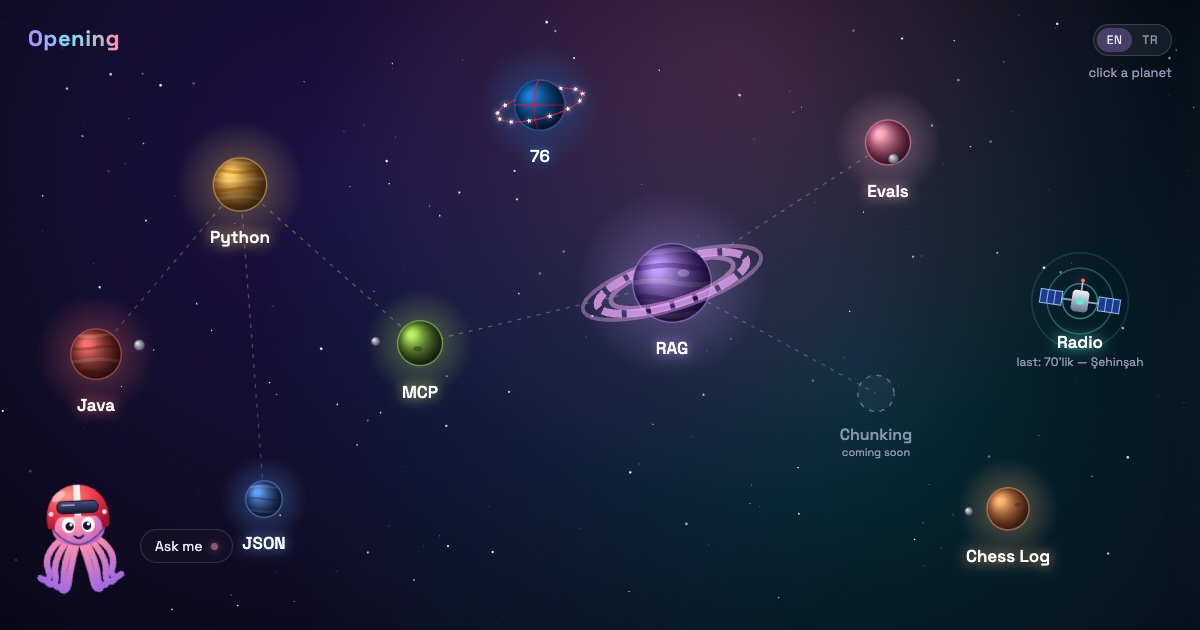
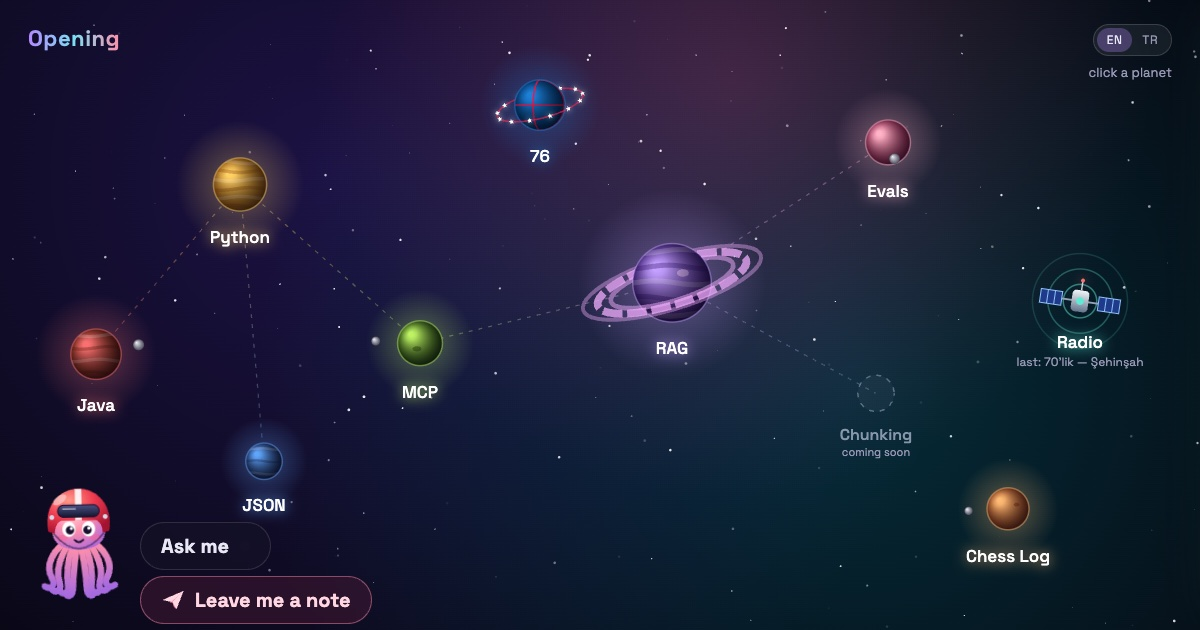
Bigger Ask me, and a "Leave me a note" pill right under it

diff --git a/index.html b/index.html
@@ -521,15 +521,16 @@
       color: var(--text);
       border: none;
       font: inherit;
-      font-size: 14px;
+      font-size: 20px; /* 40% bigger than before: these two buttons matter */
+      font-weight: 600;
       cursor: pointer;
     }
 
     .ask-label {
       display: flex;
       align-items: center;
-      gap: 8px;
-      padding: 7px 14px;
+      gap: 11px;
+      padding: 10px 20px;
       background: rgba(20, 18, 38, 0.6);
       border: 1px solid rgba(255, 255, 255, 0.12);
       border-radius: 999px;
@@ -540,9 +541,34 @@
     #octo-button:hover .ask-label { background: rgba(40, 32, 70, 0.7); box-shadow: 0 0 30px rgba(255, 143, 171, 0.25); }
     #octo-button:hover .octo { filter: drop-shadow(0 0 12px rgba(255, 143, 171, 0.5)); }
 
+    /* "Leave me a note", right under "Ask me": opens the panel straight into the note form */
+    #note-quick {
+      position: absolute;
+      left: 116px;              /* next to the octopus, lined up with "Ask me" */
+      top: calc(50% + 30px);
+      display: flex;
+      align-items: center;
+      gap: 10px;
+      padding: 10px 20px;
+      white-space: nowrap;
+      background: rgba(60, 22, 48, 0.6);
+      color: #ffd6e2;
+      border: 1px solid rgba(255, 143, 171, 0.45);
+      border-radius: 999px;
+      backdrop-filter: blur(12px);
+      font: inherit;
+      font-size: 20px;
+      font-weight: 600;
+      cursor: pointer;
+      transition: background 0.2s ease, box-shadow 0.2s ease;
+    }
+    #note-quick svg { width: 24px; height: 24px; flex: none; transition: transform 0.3s ease; }
+    #note-quick:hover { background: rgba(90, 30, 66, 0.7); box-shadow: 0 0 30px rgba(255, 143, 171, 0.3); }
+    #note-quick:hover svg { transform: translate(3px, -3px) rotate(-8deg); }
+
     .live-dot {
-      width: 7px;
-      height: 7px;
+      width: 10px;
+      height: 10px;
       border-radius: 50%;
       background: #ff8fab;
       box-shadow: 0 0 8px #ff8fab;
@@ -884,6 +910,8 @@
       /* Ask me: octopus stays bottom left, the panel becomes a sheet from the bottom */
       #ask { left: 10px; bottom: calc(var(--kb, 0px) + 10px); } /* rides up on the keyboard too */
       .octo { width: 84px; height: 92px; }
+      #octo-button { font-size: 17px; }
+      #note-quick { left: 90px; top: calc(50% + 26px); font-size: 17px; padding: 8px 16px; }
       #ask-panel {
         position: fixed;
         left: 8px;
@@ -1029,6 +1057,7 @@
       </svg>
       <span class="ask-label">Ask me <span class="live-dot"></span></span>
     </button>
+    <button type="button" id="note-quick"></button>
   </div>
 
   <div id="card">
@@ -1315,7 +1344,7 @@
         moon: { dist: 2, size: 0.2, speed: -0.0009 },
         about: "Model Context Protocol: the standard way to plug tools into Claude. I wrote my own tool, notlarda_ara (\"search my notes\"), and connected it. Fun part: Claude decides by itself when to use a tool, and the tool's description changes that decision.",
         tr: { about: "Model Context Protocol: Claude'a araç bağlamanın standart yolu. Kendi aracımı (notlarda_ara) yazıp bağladım. İşin eğlenceli yanı: aracı ne zaman kullanacağına Claude kendisi karar veriyor, aracın açıklaması da bu kararı değiştiriyor." } },
-      { name: "JSON", x: 0.22, y: 0.8, size: 26, color: "#60a5fa", dark: "#172554", spin: 0.0004,
+      { name: "JSON", x: 0.22, y: 0.74, size: 26, color: "#60a5fa", dark: "#172554", spin: 0.0004,
         bands: 3,
         about: "The shared way to write data as key-value pairs, so every language can read it. It looks almost exactly like a Python dictionary. (Yes, the internet calls it Jason.)",
         tr: { about: "Veriyi anahtar-değer çiftleriyle yazmanın ortak dili; böylece her programlama dili okuyabiliyor. Bir Python sözlüğüne neredeyse tıpatıp benziyor. (Evet, internette herkes ona Jason diyor.)" } },
@@ -2491,6 +2520,13 @@
     const noteOpen = document.getElementById("note-open");
     noteOpen.innerHTML = '<svg viewBox="0 0 34 34" aria-hidden="true"><path d="M2 17 L32 4 L22 30 L16 20 Z" fill="#ffd6e2"/><path d="M16 20 L32 4 L12 22 Z" fill="#ff8fab"/><path d="M16 20 L18 27 L22 30 Z" fill="#d9668a"/></svg>';
     noteOpen.append(T.noteLink);
+    const noteQuick = document.getElementById("note-quick");
+    noteQuick.innerHTML = noteOpen.querySelector("svg").outerHTML;
+    noteQuick.append(T.noteLink);
+    noteQuick.addEventListener("click", () => {
+      openAsk();
+      noteMode(true);
+    });
     document.getElementById("note-back").textContent = T.noteBack;
     document.getElementById("note-again").textContent = T.noteAgain;
     document.getElementById("note-privacy").textContent = T.notePrivacy;
